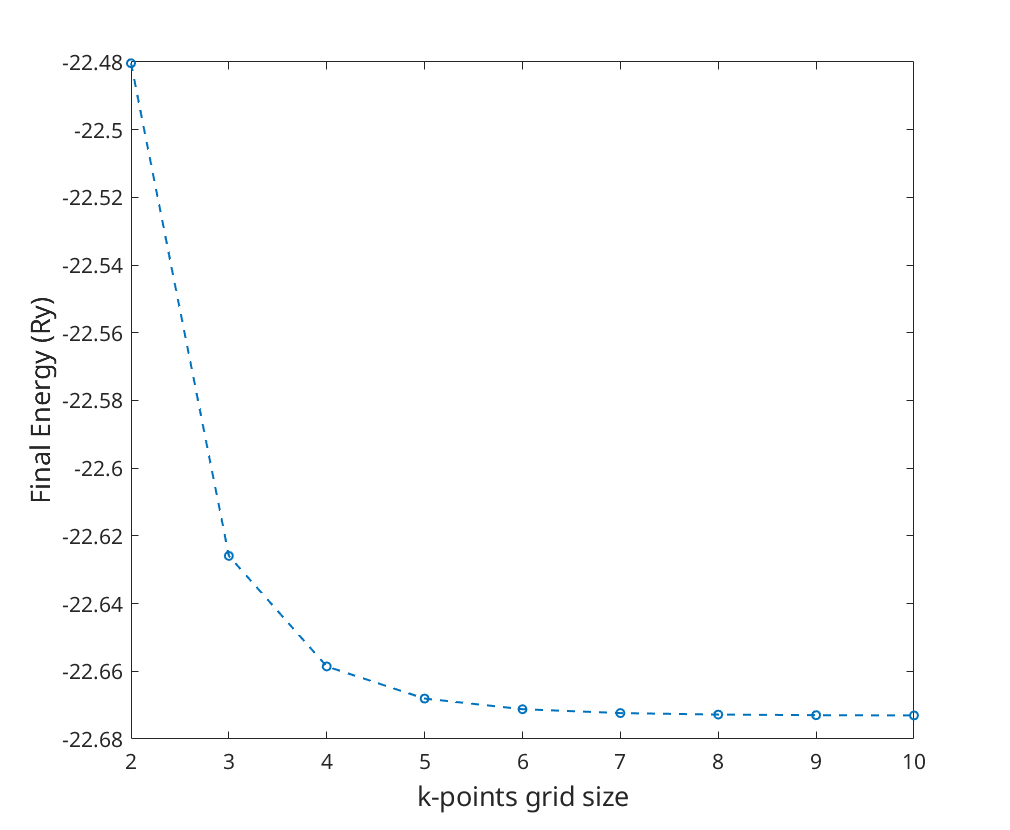
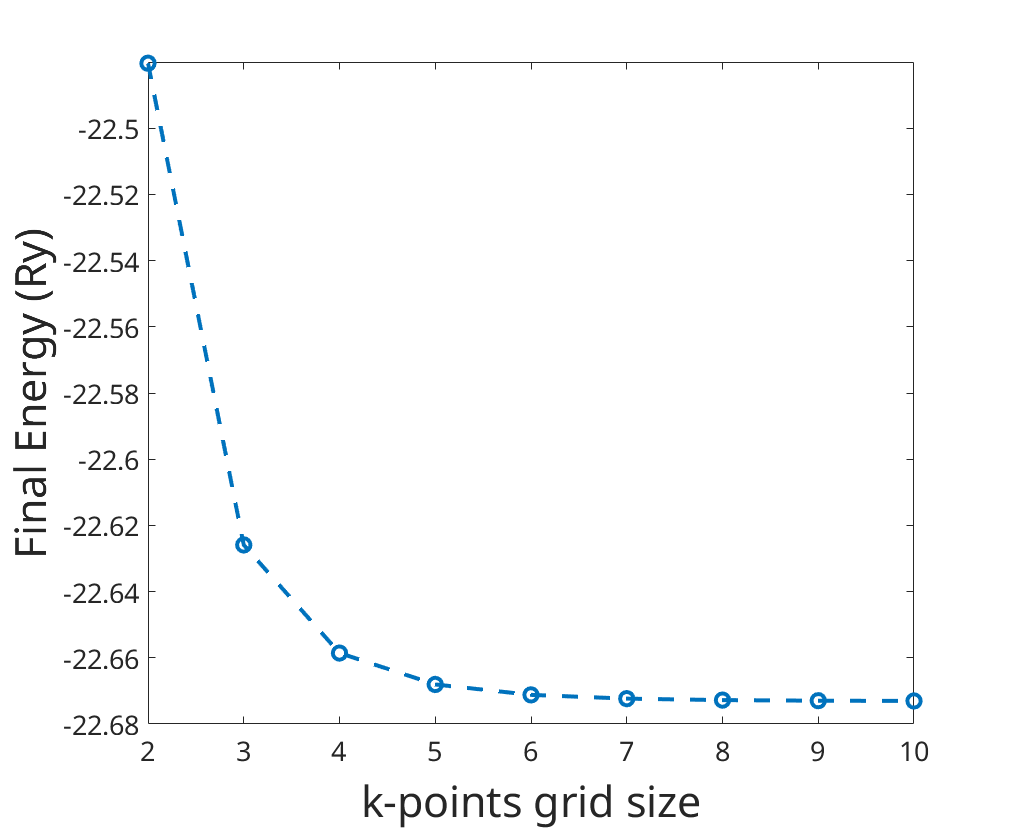
fix figures

diff --git a/rho_cutoff.m b/rho_cutoff.m
@@ -5,12 +5,12 @@ cutoff_number = [160, 180, 200, 220, 240];
 final_energy = [-22.6585633143, -22.6585595501, -22.6585580159, -22.6585658449, -22.6585653458];
 
 figure(1)
-plot(cutoff_number,final_energy,'o--',LineWidth=1.5,MarkerSize=6)
+plot(cutoff_number,final_energy,'o--',LineWidth=3,MarkerSize=10)
 ax = gca;
-ax.XAxis.FontSize = 16;
-ax.YAxis.FontSize = 16;
-ylabel("Final Energy (Ry)",FontSize=20)
-xlabel("Charge Density Energy Cutoff (Ry)",FontSize=20)
+ax.XAxis.FontSize = 20;
+ax.YAxis.FontSize = 20;
+ylabel("Final Energy (Ry)",FontSize=32)
+xlabel("Charge Density Energy Cutoff (Ry)",FontSize=32)
 ylim([-22.66,-22.65])
 fig = gcf;
 fig.Position(3:4)=[1000,800];

diff --git a/k_points_energy.m b/k_points_energy.m
@@ -5,11 +5,11 @@ k_points = [2,3,4,5,6,7,8,9,10];
 final_energy = [-22.4803692297,-22.6259070131,-22.6585633143,-22.6680541949,-22.6712003683,-22.6723399614,-22.6727808267,-22.6729600573,-22.6730358353];
 
 figure(1)
-plot(k_points,final_energy,'o--',LineWidth=1.5,MarkerSize=6)
+plot(k_points,final_energy,'o--',LineWidth=3,MarkerSize=10)
 ax = gca;
-ax.XAxis.FontSize = 16;
-ax.YAxis.FontSize = 16;
-ylabel("Final Energy (Ry)",FontSize=20)
-xlabel("k-points grid size",FontSize=20)
+ax.XAxis.FontSize = 20;
+ax.YAxis.FontSize = 20;
+ylabel("Final Energy (Ry)",FontSize=32)
+xlabel("k-points grid size",FontSize=32)
 fig = gcf;
 fig.Position(3:4)=[1000,800];

diff --git a/cutoff.m b/cutoff.m
@@ -1,0 +1,15 @@
+clear
+clc
+
+cutoff_number = [10, 15, 20, 25, 30, 35, 40, 45, 50];
+final_energy = [-22.6462242342, -22.6539747717, -22.6570465411, -22.6581669311, -22.6583718491, -22.6585139935, -22.6585633143, -22.6585633292, -22.6585728712];
+
+figure(1)
+plot(cutoff_number,final_energy,'o--',LineWidth=3,MarkerSize=10)
+ax = gca;
+ax.XAxis.FontSize = 20;
+ax.YAxis.FontSize = 20;
+ylabel("Final Energy (Ry)",FontSize=32)
+xlabel("Kinetic Energy Cutoff (Ry)",FontSize=32)
+fig = gcf;
+fig.Position(3:4)=[1000,800];
